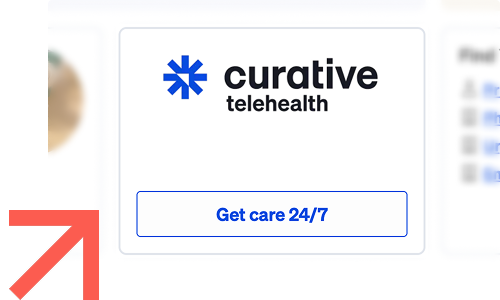
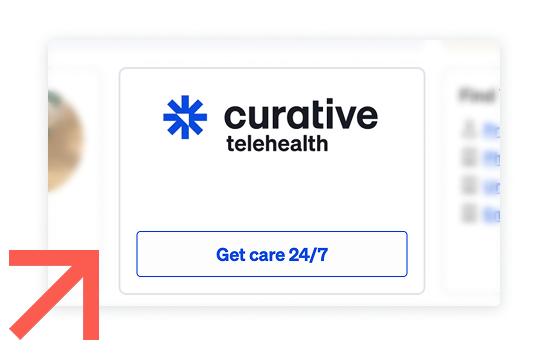
telehealth img fix

diff --git a/prototypes/blv/renewal/06/c.html b/prototypes/blv/renewal/06/c.html
@@ -18,7 +18,7 @@ button-text: Continue
 
     <p class="p-transparent pb-24 pb-40_m">We offers telehealth to our members 24/7, you have access to care whenever you may  need it. </p>
 
-    <h3 class="text-center pb-16">Start a visit right from your member portal:</h3>
+    <h3 class="text-center pb-0">Start a visit right from your member portal:</h3>
 
     <div class="flex-center-x-y pb-48">
         <img class="ct-mp" src="/swagecss/src/themes/blv/img/telehealth-member-portal.png" alt="Find Curative Telehealth in your Member Portal">

diff --git a/docs/prototypes/blv/renewal/06/c/index.html b/docs/prototypes/blv/renewal/06/c/index.html
@@ -75,7 +75,7 @@
 
     <p class="p-transparent pb-24 pb-40_m">We offers telehealth to our members 24/7, you have access to care whenever you may  need it. </p>
 
-    <h3 class="text-center pb-16">Start a visit right from your member portal:</h3>
+    <h3 class="text-center pb-0">Start a visit right from your member portal:</h3>
 
     <div class="flex-center-x-y pb-48">
         <img class="ct-mp" src="/swagecss/src/themes/blv/img/telehealth-member-portal.png" alt="Find Curative Telehealth in your Member Portal">

diff --git a/docs/src/themes/blv/blv.css b/docs/src/themes/blv/blv.css
@@ -970,7 +970,7 @@ flippycard.spin .flippy-card img {
 
 .ct-mp {
     height: auto;
-    transform: translateX(-16px);
+    
 }
 
 .infocard {

diff --git a/src/themes/blv/blv.css b/src/themes/blv/blv.css
@@ -970,7 +970,7 @@ flippycard.spin .flippy-card img {
 
 .ct-mp {
     height: auto;
-    transform: translateX(-16px);
+    
 }
 
 .infocard {

diff --git a/docs/src/themes/blv/blv-mobile.css b/docs/src/themes/blv/blv-mobile.css
@@ -282,8 +282,7 @@
 
     .ct-mp {
         width: 80%;
-        transform: translateX(-12px);
-   
+     
     }
 
     /* #endregion */

diff --git a/src/themes/blv/blv-mobile.css b/src/themes/blv/blv-mobile.css
@@ -282,8 +282,7 @@
 
     .ct-mp {
         width: 80%;
-        transform: translateX(-12px);
-   
+     
     }
 
     /* #endregion */
